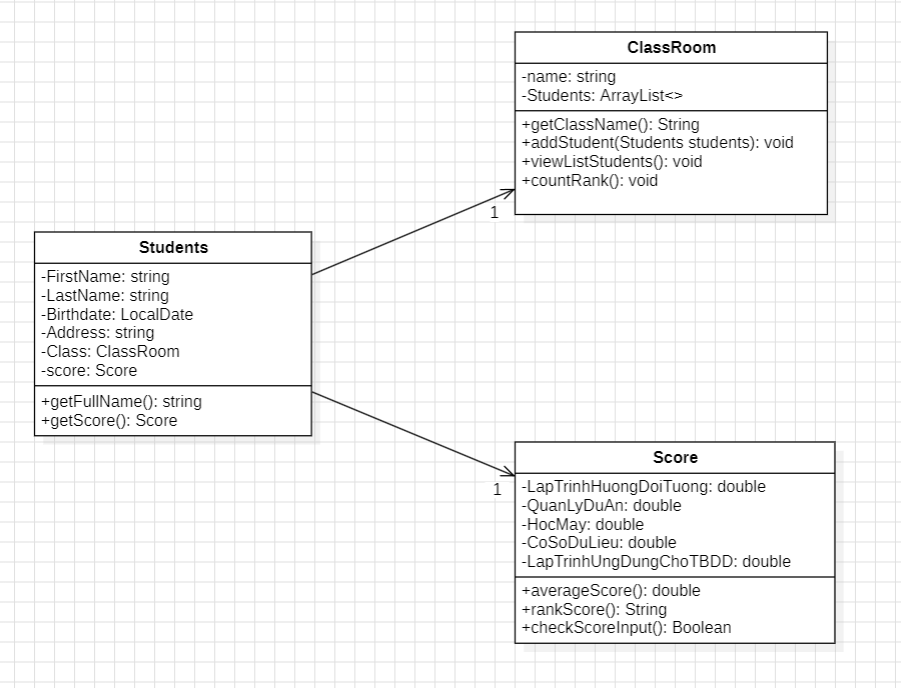
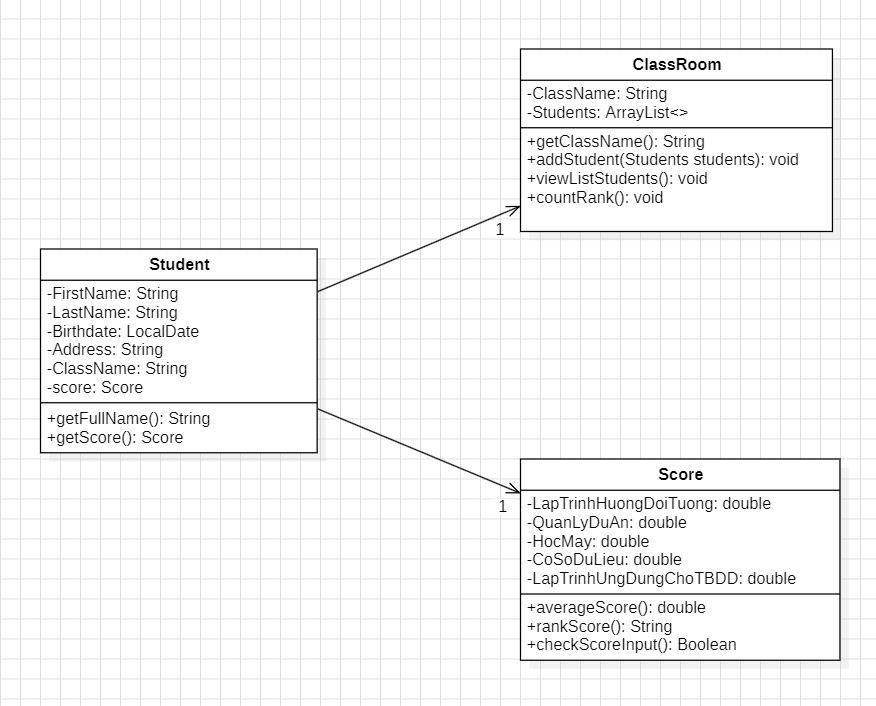
Thay đổi toàn bộ chương trình để theo hướng Factory Pattern

diff --git a/src/Main.java b/src/Main.java
@@ -5,49 +5,49 @@ public class Main {
     public static void main(String[] args) {
         ArrayList<ClassRoom> ClassRoomList = new ArrayList<>();
 
-        Factory Factory = new Factory();
-
         // tạo các lớp học
-        ClassRoom classRoom1 = Factory.createClasRoom("64HTTT1");
-        ClassRoom classRoom2 = Factory.createClasRoom("64HTTT2");
-        ClassRoom classRoom3 = Factory.createClasRoom("64HTTT3");
-        ClassRoom classRoom4 = Factory.createClasRoom("64HTTT4");
+        ClassRoom classRoom1 = ClassRoomFactory.createClassRoom("64HTTT1");
+        ClassRoom classRoom2 = ClassRoomFactory.createClassRoom("64HTTT2");
+        ClassRoom classRoom3 = ClassRoomFactory.createClassRoom("64HTTT3");
+        ClassRoom classRoom4 = ClassRoomFactory.createClassRoom("64HTTT4");
 
         ClassRoomList.add(classRoom1);
         ClassRoomList.add(classRoom2);
         ClassRoomList.add(classRoom3);
         ClassRoomList.add(classRoom4);
+
+
         // điểm của các sinh viên
-        Score score1 = Factory.createScore(9, 10, 8, 8, 9);
-        Score score2 = Factory.createScore(10, 5, 6, 2, 1);
-        Score score3 = Factory.createScore(1, 2, 1, 1, 1);
-        Score score4 = Factory.createScore(9, 9, 9, 9, 9);
-        Score score5 = Factory.createScore(8, 8, 8, 8, 8);
-        Score score6 = Factory.createScore(7, 7, 7, 7, 7);
-        Score score7 = Factory.createScore(6, 6, 6, 6, 6);
-        Score score8 = Factory.createScore(5, 5, 5, 5, 5);
-        Score score9 = Factory.createScore(4, 4, 4, 4, 4);
-        Score score10 = Factory.createScore(3, 3, 3, 3, 3);
-        Score score11 = Factory.createScore(3.6, 6.5, 8.3, 7.3, 3.9);
-        Score score12 = Factory.createScore(5.4, 6.7, 9.5, 7.8, 9.3);
-        Score score13 = Factory.createScore(2.9, 8.8, 9.3, 6.3, 5.5);
-        Score score14 = Factory.createScore(9.9, 9, 4.4, 6.7, 6.9);
+        Score score1 = ScoreFactory.createScore(9, 10, 8, 8, 9);
+        Score score2 = ScoreFactory.createScore(10, 5, 6, 2, 1);
+        Score score3 = ScoreFactory.createScore(1, 2, 1, 1, 1);
+        Score score4 = ScoreFactory.createScore(9, 9, 9, 9, 9);
+        Score score5 = ScoreFactory.createScore(8, 8, 8, 8, 8);
+        Score score6 = ScoreFactory.createScore(7, 7, 7, 7, 7);
+        Score score7 = ScoreFactory.createScore(6, 6, 6, 6, 6);
+        Score score8 = ScoreFactory.createScore(5, 5, 5, 5, 5);
+        Score score9 = ScoreFactory.createScore(4, 4, 4, 4, 4);
+        Score score10 = ScoreFactory.createScore(3, 3, 3, 3, 3);
+        Score score11 = ScoreFactory.createScore(3.6, 6.5, 8.3, 7.3, 3.9);
+        Score score12 = ScoreFactory.createScore(5.4, 6.7, 9.5, 7.8, 9.3);
+        Score score13 = ScoreFactory.createScore(2.9, 8.8, 9.3, 6.3, 5.5);
+        Score score14 = ScoreFactory.createScore(9.9, 9, 4.4, 6.7, 6.9);
 
         //tạo các sinh vien
-        Students student1 = Factory.createStudent( "Nguyen", "Thi Hoa", LocalDate.of(2003, 5, 11), "Ninh Binh",classRoom1,score1);
-        Students student2 = Factory.createStudent("Nguyen", "Thi Huyen", LocalDate.of(2003, 6, 12), "Thanh Hoa", classRoom1,score2);
-        Students student3 = Factory.createStudent("Nguyen", "Thi Tam", LocalDate.of(2003, 7, 13), "Nam Dinh", classRoom1,score3);
-        Students student4 = Factory.createStudent("Ha", "Van Dat", LocalDate.of(2003, 8, 14), "Lao Cai", classRoom1,score4);
-        Students student5 = Factory.createStudent("Ha", "Van Huy", LocalDate.of(2003, 9, 15), "Son La",classRoom2,score5);
-        Students student6 = Factory.createStudent("Ha", "Van Van", LocalDate.of(2003, 10, 16), "Thai Nguyen", classRoom2, score6);
-        Students student7 = Factory.createStudent("Nguyen", "Van Teo", LocalDate.of(2003, 11, 17), "Cao Bang", classRoom2, score7);
-        Students student8 = Factory.createStudent("Nguyen", "Van Ti", LocalDate.of(2003, 12, 18), "Ha Nam", classRoom2, score8);
-        Students student9 = Factory.createStudent("Nguyen", "Trung Hieu", LocalDate.of(2003, 1, 19), "Nghe An", classRoom3, score9);
-        Students student10 = Factory.createStudent("Nguyen", "Trung Van", LocalDate.of(2003, 5, 20), "Quang Binh", classRoom3, score10);
-        Students student11 = Factory.createStudent("Nguyen", "Nam Trung", LocalDate.of(2003, 5, 21), "Ha Noi", classRoom3, score11);
-        Students student12 = Factory.createStudent("Nguyen", "Quang Khanh", LocalDate.of(2003, 3, 22), "Hung Yen", classRoom3, score12);
-        Students student13 = Factory.createStudent("Nguyen", "Nam Sau", LocalDate.of(2003, 2, 23), "Hoa Binh", classRoom4, score13);
-        Students student14 = Factory.createStudent("Nguyen", "Cao Tam", LocalDate.of(2003, 6, 24), "Tay Nguyen", classRoom4, score14);
+        Student student1 = StudentFactory.createStudent( "Nguyen", "Thi Hoa", LocalDate.of(2003, 5, 11), "Ninh Binh",classRoom1.getClassName(),score1);
+        Student student2 = StudentFactory.createStudent("Nguyen", "Thi Huyen", LocalDate.of(2003, 6, 12), "Thanh Hoa", classRoom1.getClassName(),score2);
+        Student student3 = StudentFactory.createStudent("Nguyen", "Thi Tam", LocalDate.of(2003, 7, 13), "Nam Dinh", classRoom1.getClassName(),score3);
+        Student student4 = StudentFactory.createStudent("Ha", "Van Dat", LocalDate.of(2003, 8, 14), "Lao Cai", classRoom1.getClassName(),score4);
+        Student student5 = StudentFactory.createStudent("Ha", "Van Huy", LocalDate.of(2003, 9, 15), "Son La",classRoom2.getClassName(),score5);
+        Student student6 = StudentFactory.createStudent("Ha", "Van Van", LocalDate.of(2003, 10, 16), "Thai Nguyen", classRoom2.getClassName(), score6);
+        Student student7 = StudentFactory.createStudent("Nguyen", "Van Teo", LocalDate.of(2003, 11, 17), "Cao Bang", classRoom2.getClassName(), score7);
+        Student student8 = StudentFactory.createStudent("Nguyen", "Van Ti", LocalDate.of(2003, 12, 18), "Ha Nam", classRoom2.getClassName(), score8);
+        Student student9 = StudentFactory.createStudent("Nguyen", "Trung Hieu", LocalDate.of(2003, 1, 19), "Nghe An", classRoom3.getClassName(), score9);
+        Student student10 = StudentFactory.createStudent("Nguyen", "Trung Van", LocalDate.of(2003, 5, 20), "Quang Binh", classRoom3.getClassName(), score10);
+        Student student11 = StudentFactory.createStudent("Nguyen", "Nam Trung", LocalDate.of(2003, 5, 21), "Ha Noi", classRoom3.getClassName(), score11);
+        Student student12 = StudentFactory.createStudent("Nguyen", "Quang Khanh", LocalDate.of(2003, 3, 22), "Hung Yen", classRoom3.getClassName(), score12);
+        Student student13 = StudentFactory.createStudent("Nguyen", "Nam Sau", LocalDate.of(2003, 2, 23), "Hoa Binh", classRoom4.getClassName(), score13);
+        Student student14 = StudentFactory.createStudent("Nguyen", "Cao Tam", LocalDate.of(2003, 6, 24), "Tay Nguyen", classRoom4.getClassName(), score14);
 
         classRoom1.addStudent(student1);
         classRoom1.addStudent(student2);

diff --git a/src/ClassRoom.java b/src/ClassRoom.java
@@ -1,29 +1,29 @@
 import java.util.ArrayList;
 
 public class ClassRoom {
-        private String name ;
-        private ArrayList<Students> studentList;
+        private String ClassName ;
+        private ArrayList<IStudent> studentList;
 
-        public ClassRoom (String name){
-            this.name = name;
+        public ClassRoom (String ClassName){
+            this.ClassName = ClassName;
             this.studentList = new ArrayList<>();
         }
         public String getClassName(){
-            return this.name;
+            return this.ClassName;
         }
-        public void addStudent(Students students){
-            studentList.add(students);
+        public void addStudent(IStudent student){
+            studentList.add(student);
         }
         public void viewListStudents(){
-            System.out.println("Danh sách sinh viên lớp "+this.name+":");
-            for(Students students : studentList){
-                System.out.println(students.getFullName());
+            System.out.println("Danh sách sinh viên lớp "+this.ClassName+":");
+            for(IStudent student : studentList){
+                System.out.println(student.getFullName());
             }
         }
         public void countRank(){
             int countRank_A = 0, countRank_B = 0, countRank_C = 0, countRank_D = 0, countRank_F = 0;
-            for (Students students : studentList){
-                String rank = students.getScore().rankScore();
+            for (IStudent student : studentList){
+                String rank = student.getScore().rankScore();
                 switch (rank){
                     case "A": countRank_A++;break;
                     case "B": countRank_B++;break;
@@ -42,7 +42,7 @@ public class ClassRoom {
 
         @Override
         public String toString() {
-            return "Tên lớp: " + this.name;
+            return "Tên lớp: " + this.ClassName;
         }
     }
 

diff --git a/src/Student.java b/src/Student.java
@@ -1,24 +1,28 @@
 import java.time.LocalDate;
 
-public class Students {
-    private String firstName, lastName, address;
+public class Student implements IStudent{
+    private String firstName;
+    private String lastName;
+    private String address;
     private LocalDate Birthdate;
     private Score score;
-    private ClassRoom Class;
+    private String ClassName;
 
-    public Students(String firstName , String lastName , LocalDate Birthdate,  String address, ClassRoom Class,Score score){
+    public Student(String firstName , String lastName , LocalDate Birthdate, String address, String ClassName, Score score){
         this.firstName = firstName;
         this.lastName = lastName;
         this.Birthdate = Birthdate;
         this.address = address;
         this.score = score;
-        this.Class = Class;
+        this.ClassName = ClassName;
     }
+    @Override
     public String getFullName(){
         return this.firstName + " " + this.lastName;
     }
+    @Override
     public Score getScore(){
-        return this.score;
+        return score;
     }
 }
 

diff --git a/src/Score.java b/src/Score.java
@@ -1,5 +1,9 @@
 public class Score {
-    private double lapTrinhHuongDoiTuong, quanLyDuAn, hocMay, coSoDuLieu, lapTrinhUngDungChoTBDD;
+    private double lapTrinhHuongDoiTuong;
+    private double quanLyDuAn;
+    private double hocMay;
+    private double coSoDuLieu;
+    private double lapTrinhUngDungChoTBDD;
 
     public Score(double lapTrinhHuongDoiTuong, double quanLyDuAn, double hocMay, double coSoDuLieu, double lapTrinhUngDungChoTBDD) {
         if(!checkScoreInput(lapTrinhHuongDoiTuong) ||
@@ -16,6 +20,8 @@ public class Score {
             this.lapTrinhUngDungChoTBDD = lapTrinhUngDungChoTBDD;
         }
     }
+
+
     public boolean checkScoreInput(double score){
         return  score >=0.0 && score <=10;
     }
@@ -38,4 +44,5 @@ public class Score {
             return "A";
         }
     }
+
 }

diff --git a/src/ScoreFactory.java b/src/ScoreFactory.java
@@ -1,0 +1,7 @@
+class ScoreFactory {
+    public static Score createScore(double lapTrinhHuongDoiTuong, double quanLyDuAn, double hocMay, double coSoDuLieu, double lapTrinhUngDungChoTBDD) {
+        return new Score(lapTrinhHuongDoiTuong, quanLyDuAn, hocMay, coSoDuLieu, lapTrinhUngDungChoTBDD);
+    }
+}
+
+

diff --git a/src/StudentFactory.java b/src/StudentFactory.java
@@ -1,0 +1,7 @@
+import java.time.LocalDate;
+
+class StudentFactory {
+    public static Student createStudent(String firstName , String lastName , LocalDate Birthdate, String address, String ClassName, Score score){
+        return new Student(firstName,lastName,Birthdate,address,ClassName,score);
+    }
+}

diff --git a/src/ClassRoomFactory.java b/src/ClassRoomFactory.java
@@ -1,0 +1,5 @@
+class ClassRoomFactory {
+    public static ClassRoom createClassRoom(String ClassName) {
+        return new ClassRoom(ClassName);
+    }
+}

diff --git a/src/IStudent.java b/src/IStudent.java
@@ -1,0 +1,4 @@
+public interface IStudent {
+    String getFullName();
+    Score getScore();
+}
